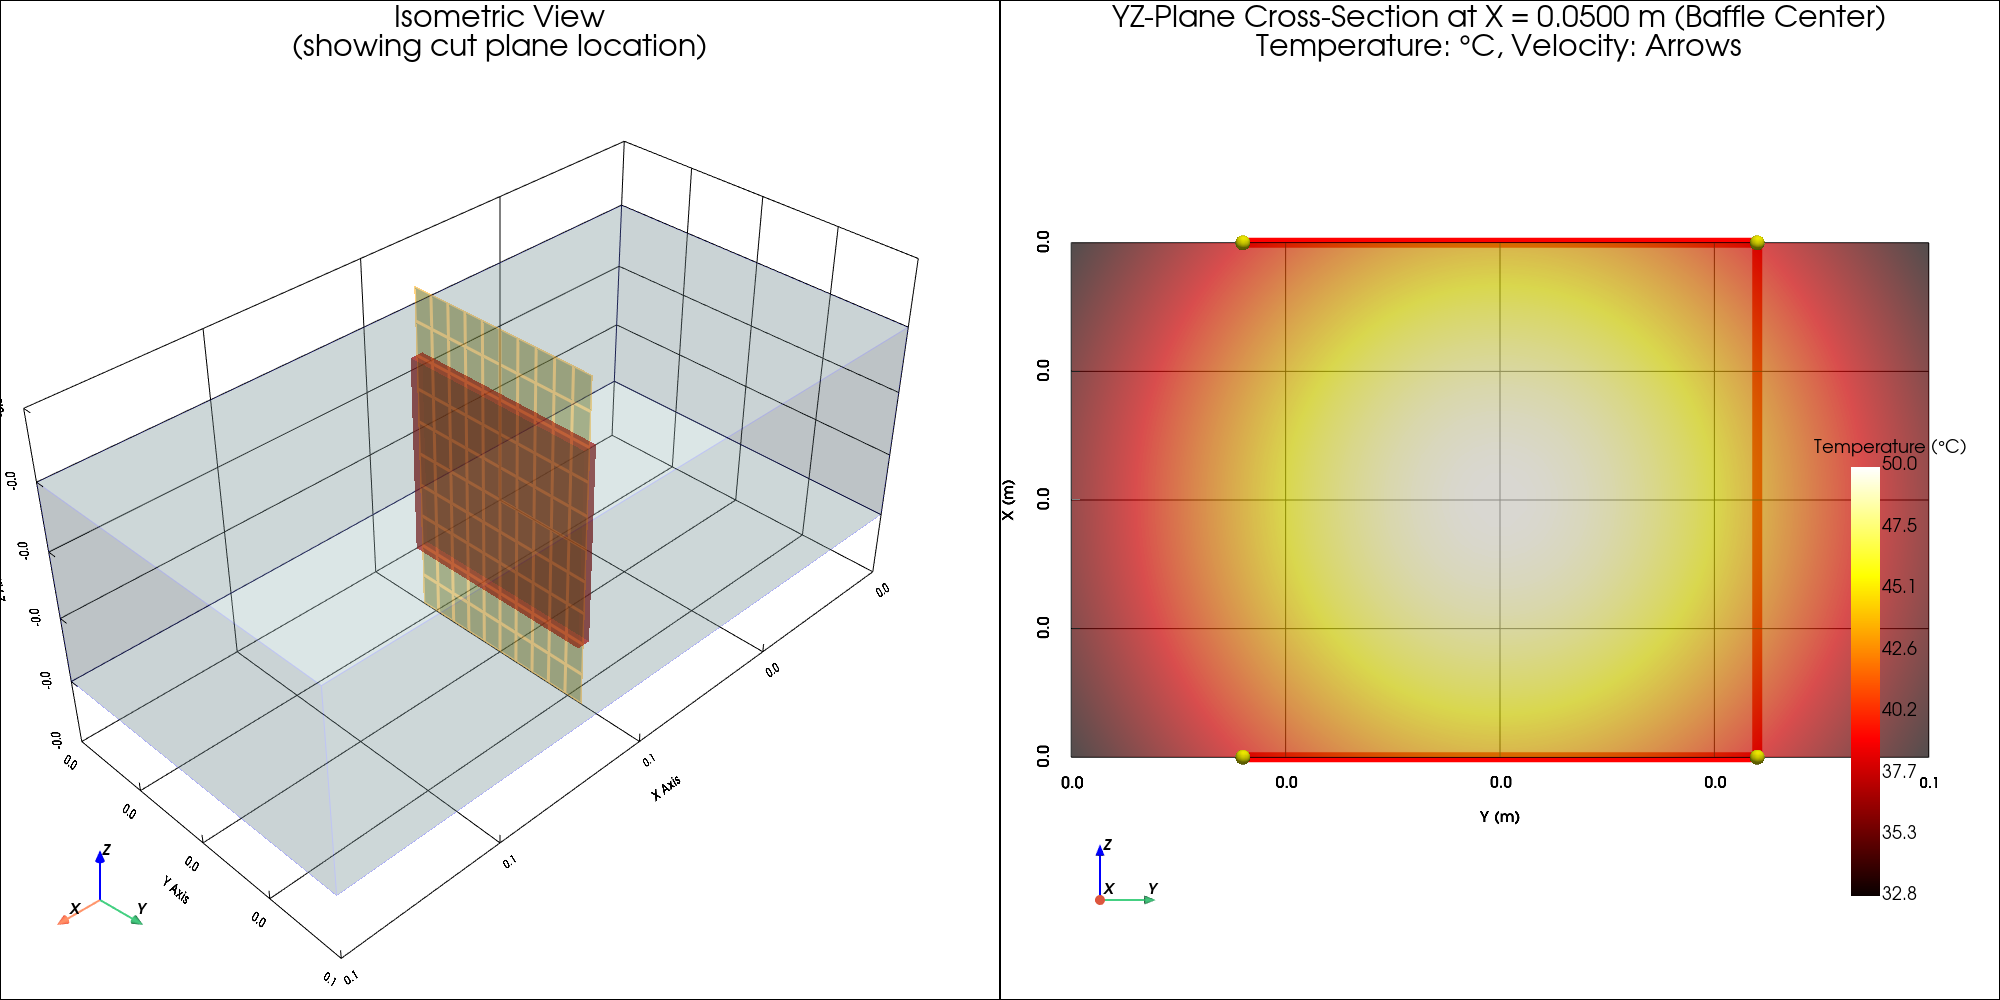
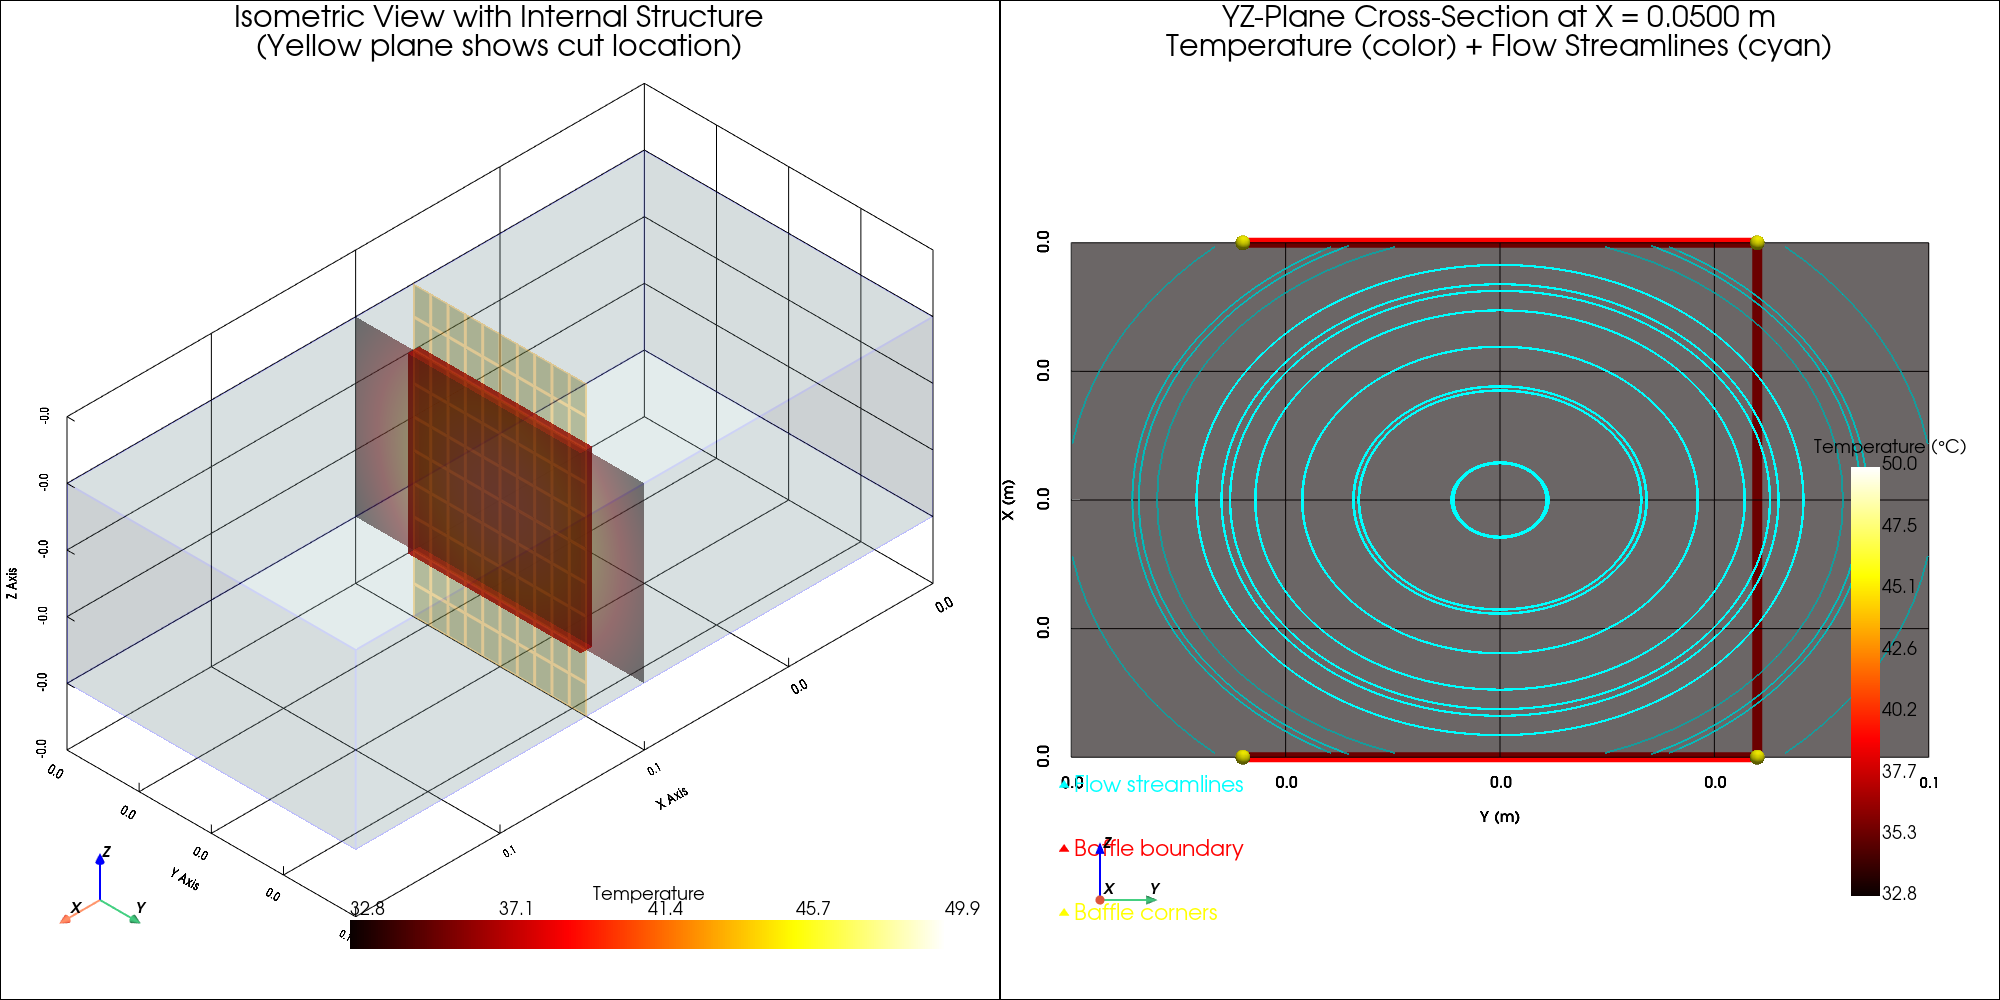
Improve cross-section visualization
- Enable parallel projection on both panels
- Left panel: Show internal structure with temperature preview on cut plane
- Left panel: Make geometry more transparent to see internal structure
- Right panel: Add flow streamlines (cyan) to show velocity field
- Right panel: Add labels to clarify red lines (Baffle boundary) and yellow points (Baffle corners)
- Right panel: Update title to mention streamlines
- Add legend to right panel
- Fix ruff errors (PERF401, ERA001)

diff --git a/circuitboardcooling/circuitboardcooling/__main__.py b/circuitboardcooling/circuitboardcooling/__main__.py
@@ -293,11 +293,7 @@ def convert_to_vtk(case_dir: Path) -> None:
         # For multiRegion cases, foamToVTK must be run for each region
         # First check if it's a multiRegion case
         system_dir = case_dir / "system"
-        regions = [
-            d.name
-            for d in system_dir.iterdir()
-            if d.is_dir() and d.name not in ["include"]
-        ]
+        regions = [d.name for d in system_dir.iterdir() if d.is_dir() and d.name not in ["include"]]
 
         if regions:
             # MultiRegion case - convert each region
@@ -362,9 +358,7 @@ def visualize_results(case_dir: Path) -> None:
     region_dirs = [d for d in vtk_dir.iterdir() if d.is_dir()]
 
     if region_dirs and all(
-        d.name in ["baffle3D", "fluid"]
-        for d in region_dirs
-        if not d.name.startswith(".")
+        d.name in ["baffle3D", "fluid"] for d in region_dirs if not d.name.startswith(".")
     ):
         # MultiRegion case with region folders directly in VTK
         logger.info("Found %s regions to visualize", len(region_dirs))
@@ -468,10 +462,7 @@ def _add_velocity_subplot(
         if "U" in mesh.array_names:
             # Calculate velocity magnitude
             velocity_data = mesh["U"]
-            if (
-                velocity_data.ndim == NUMPY_DIM_2D
-                and velocity_data.shape[1] == NUMPY_DIM_3D
-            ):
+            if velocity_data.ndim == NUMPY_DIM_2D and velocity_data.shape[1] == NUMPY_DIM_3D:
                 velocity_mag = np.linalg.norm(velocity_data, axis=1)
                 mesh["velocity_magnitude"] = velocity_mag
 
@@ -550,10 +541,7 @@ def _add_streamlines(plotter: pv.Plotter, mesh: pv.DataSet) -> None:
         if streamlines.n_points > 0:
             # Calculate velocity magnitude for coloring streamlines
             velocity_data = streamlines["U"]
-            if (
-                velocity_data.ndim == NUMPY_DIM_2D
-                and velocity_data.shape[1] == NUMPY_DIM_3D
-            ):
+            if velocity_data.ndim == NUMPY_DIM_2D and velocity_data.shape[1] == NUMPY_DIM_3D:
                 velocity_mag = np.linalg.norm(velocity_data, axis=1)
                 streamlines["velocity_magnitude"] = velocity_mag
 
@@ -958,10 +946,7 @@ def setup_case(
     foam_tutorials = os.environ.get("FOAM_TUTORIALS")
     if foam_tutorials:
         tutorial_src = (
-            Path(foam_tutorials)
-            / "heatTransfer"
-            / "buoyantSimpleFoam"
-            / "circuitBoardCooling"
+            Path(foam_tutorials) / "heatTransfer" / "buoyantSimpleFoam" / "circuitBoardCooling"
         )
         if tutorial_src.exists():
             temp_dir = Path(tempfile.mkdtemp(prefix="circuitboard_", dir=Path.home()))
@@ -1017,17 +1002,18 @@ def _add_demo_geometry(
     """Add geometry to isometric view for demo."""
     x_min, x_max, y_min, y_max, z_min, z_max = bounds
 
-    # Fluid domain box
+    # Fluid domain box (semi-transparent)
     fluid_box = pv.Box(bounds=[x_min, x_max, y_min, y_max, z_min, z_max])
     plotter.add_mesh(
         fluid_box,
         color="lightblue",
-        opacity=0.2,
+        opacity=0.15,
         show_edges=True,
         edge_color="blue",
+        line_width=2,
     )
 
-    # Baffle
+    # Add baffle mesh
     baffle_thickness = 0.002
     baffle = pv.Box(
         bounds=[
@@ -1039,9 +1025,9 @@ def _add_demo_geometry(
             z_max,
         ],
     )
-    plotter.add_mesh(baffle, color="red", opacity=0.5)
+    plotter.add_mesh(baffle, color="red", opacity=0.8, label="Baffle")
 
-    # Cutting plane
+    # Cutting plane (yellow, semi-transparent)
     plane = pv.Plane(
         center=[x_center, (y_min + y_max) / 2, (z_min + z_max) / 2],
         direction=[1, 0, 0],
@@ -1051,10 +1037,38 @@ def _add_demo_geometry(
     plotter.add_mesh(
         plane,
         color="yellow",
-        opacity=0.5,
+        opacity=0.4,
         show_edges=True,
         edge_color="orange",
         line_width=3,
+        label="Cut Plane",
+    )
+
+    # Add internal cross-section preview (same as cut plane but with temperature gradient)
+    # Create a simple gradient to show internal structure
+    y_points, z_points = 20, 15
+    y = np.linspace(y_min, y_max, y_points)
+    z = np.linspace(z_min, z_max, z_points)
+    y_grid, z_grid = np.meshgrid(y, z)
+    x_grid = np.full_like(y_grid, x_center)
+
+    # Temperature gradient
+    center_y = (y_min + y_max) / 2
+    center_z = (z_min + z_max) / 2
+    temp_preview = 20 + 30 * np.exp(-((y_grid - center_y) ** 2 + (z_grid - center_z) ** 2) / 0.001)
+
+    points = np.c_[x_grid.ravel(), y_grid.ravel(), z_grid.ravel()]
+    preview_mesh = pv.StructuredGrid()
+    preview_mesh.points = points
+    preview_mesh.dimensions = [1, y_points, z_points]
+    preview_mesh["Temperature"] = temp_preview.ravel()
+
+    plotter.add_mesh(
+        preview_mesh,
+        scalars="Temperature",
+        cmap="hot",
+        opacity=0.6,
+        show_edges=False,
     )
 
 
@@ -1076,9 +1090,13 @@ def _add_demo_cross_section(
     # Temperature field (warmer near center)
     center_y = (y_min + y_max) / 2
     center_z = (z_min + z_max) / 2
-    temperature = 20 + 30 * np.exp(
-        -((y_grid - center_y) ** 2 + (z_grid - center_z) ** 2) / 0.001,
-    )
+    temperature = 20 + 30 * np.exp(-((y_grid - center_y) ** 2 + (z_grid - center_z) ** 2) / 0.001)
+
+    # Create velocity field (circular flow pattern around baffle)
+    # V velocity component (Y direction)
+    v_velocity = 0.5 * (z_grid - center_z) / 0.015
+    # W velocity component (Z direction)
+    w_velocity = -0.5 * (y_grid - center_y) / 0.025
 
     # Create mesh
     points = np.c_[x_grid.ravel(), y_grid.ravel(), z_grid.ravel()]
@@ -1087,13 +1105,21 @@ def _add_demo_cross_section(
     slice_mesh.dimensions = [1, y_points, z_points]
     slice_mesh["T_celsius"] = temperature.ravel()
 
+    # Add velocity vectors (U=0 on slice, only V and W components)
+    velocity = np.c_[
+        np.zeros(y_grid.size),  # U component (normal to slice)
+        v_velocity.ravel(),  # V component
+        w_velocity.ravel(),  # W component
+    ]
+    slice_mesh["velocity"] = velocity
+
     # Add temperature contour
     plotter.add_mesh(
         slice_mesh,
         scalars="T_celsius",
         cmap="hot",
         show_edges=False,
-        opacity=0.7,
+        opacity=0.6,
         scalar_bar_args={
             "title": "Temperature (°C)",
             "vertical": True,
@@ -1104,7 +1130,34 @@ def _add_demo_cross_section(
         },
     )
 
-    # Add baffle on cross-section
+    # Add streamlines for velocity
+    # Create seed points for streamlines
+    seed_points = [
+        [x_center, y_seed, z_seed]
+        for y_seed in np.linspace(y_min + 0.005, y_max - 0.005, 8)
+        for z_seed in np.linspace(z_min + 0.003, z_max - 0.003, 5)
+    ]
+
+    seed = pv.PolyData(np.array(seed_points))
+
+    # Generate streamlines
+    streamlines = slice_mesh.streamlines_from_source(
+        seed,
+        vectors="velocity",
+        max_time=10.0,
+        integration_direction="both",
+    )
+
+    if streamlines.n_points > 0:
+        plotter.add_mesh(
+            streamlines,
+            color="cyan",
+            line_width=2,
+            opacity=0.8,
+            label="Flow streamlines",
+        )
+
+    # Add baffle boundary with label
     baffle_y_min, baffle_y_max = y_min + 0.01, y_max - 0.01
     baffle_points = np.array(
         [
@@ -1117,9 +1170,13 @@ def _add_demo_cross_section(
     baffle_line = pv.PolyData(baffle_points)
     baffle_line.lines = np.array([4, 0, 1, 2, 3])
 
-    plotter.add_mesh(baffle_line, color="red", line_width=10)
+    plotter.add_mesh(baffle_line, color="red", line_width=10, label="Baffle boundary")
     plotter.add_points(
-        baffle_points, color="yellow", point_size=15, render_points_as_spheres=True,
+        baffle_points,
+        color="yellow",
+        point_size=15,
+        render_points_as_spheres=True,
+        label="Baffle corners",
     )
 
 
@@ -1151,23 +1208,24 @@ def create_demo_visualization(output_path: Path | None = None) -> Path:
     x_center = (x_min + x_max) / 2
     bounds = (x_min, x_max, y_min, y_max, z_min, z_max)
 
-    # LEFT PANEL: Isometric view
+    # LEFT PANEL: Isometric view with internal structure
     plotter.subplot(0, 0)
     plotter.add_text(
-        "Isometric View\n(showing cut plane location)",
+        "Isometric View with Internal Structure\n(Yellow plane shows cut location)",
         font_size=12,
         position="upper_edge",
     )
     _add_demo_geometry(plotter, bounds, x_center)
     plotter.view_isometric()
+    plotter.camera.parallel_projection = True  # Enable parallel projection
     plotter.add_axes()
     plotter.show_bounds(grid="back", location="outer", font_size=10)
 
     # RIGHT PANEL: Cross-section view
     plotter.subplot(0, 1)
     plotter.add_text(
-        f"YZ-Plane Cross-Section at X = {x_center:.4f} m (Baffle Center)\n"
-        "Temperature: °C, Velocity: Arrows",
+        f"YZ-Plane Cross-Section at X = {x_center:.4f} m\n"
+        "Temperature (color) + Flow Streamlines (cyan)",
         font_size=12,
         position="upper_edge",
     )
@@ -1184,6 +1242,7 @@ def create_demo_visualization(output_path: Path | None = None) -> Path:
         font_size=12,
     )
     plotter.add_axes()
+    plotter.add_legend(size=(0.2, 0.2), loc="lower left")
 
     # Save screenshot
     plotter.screenshot(str(output_path))
